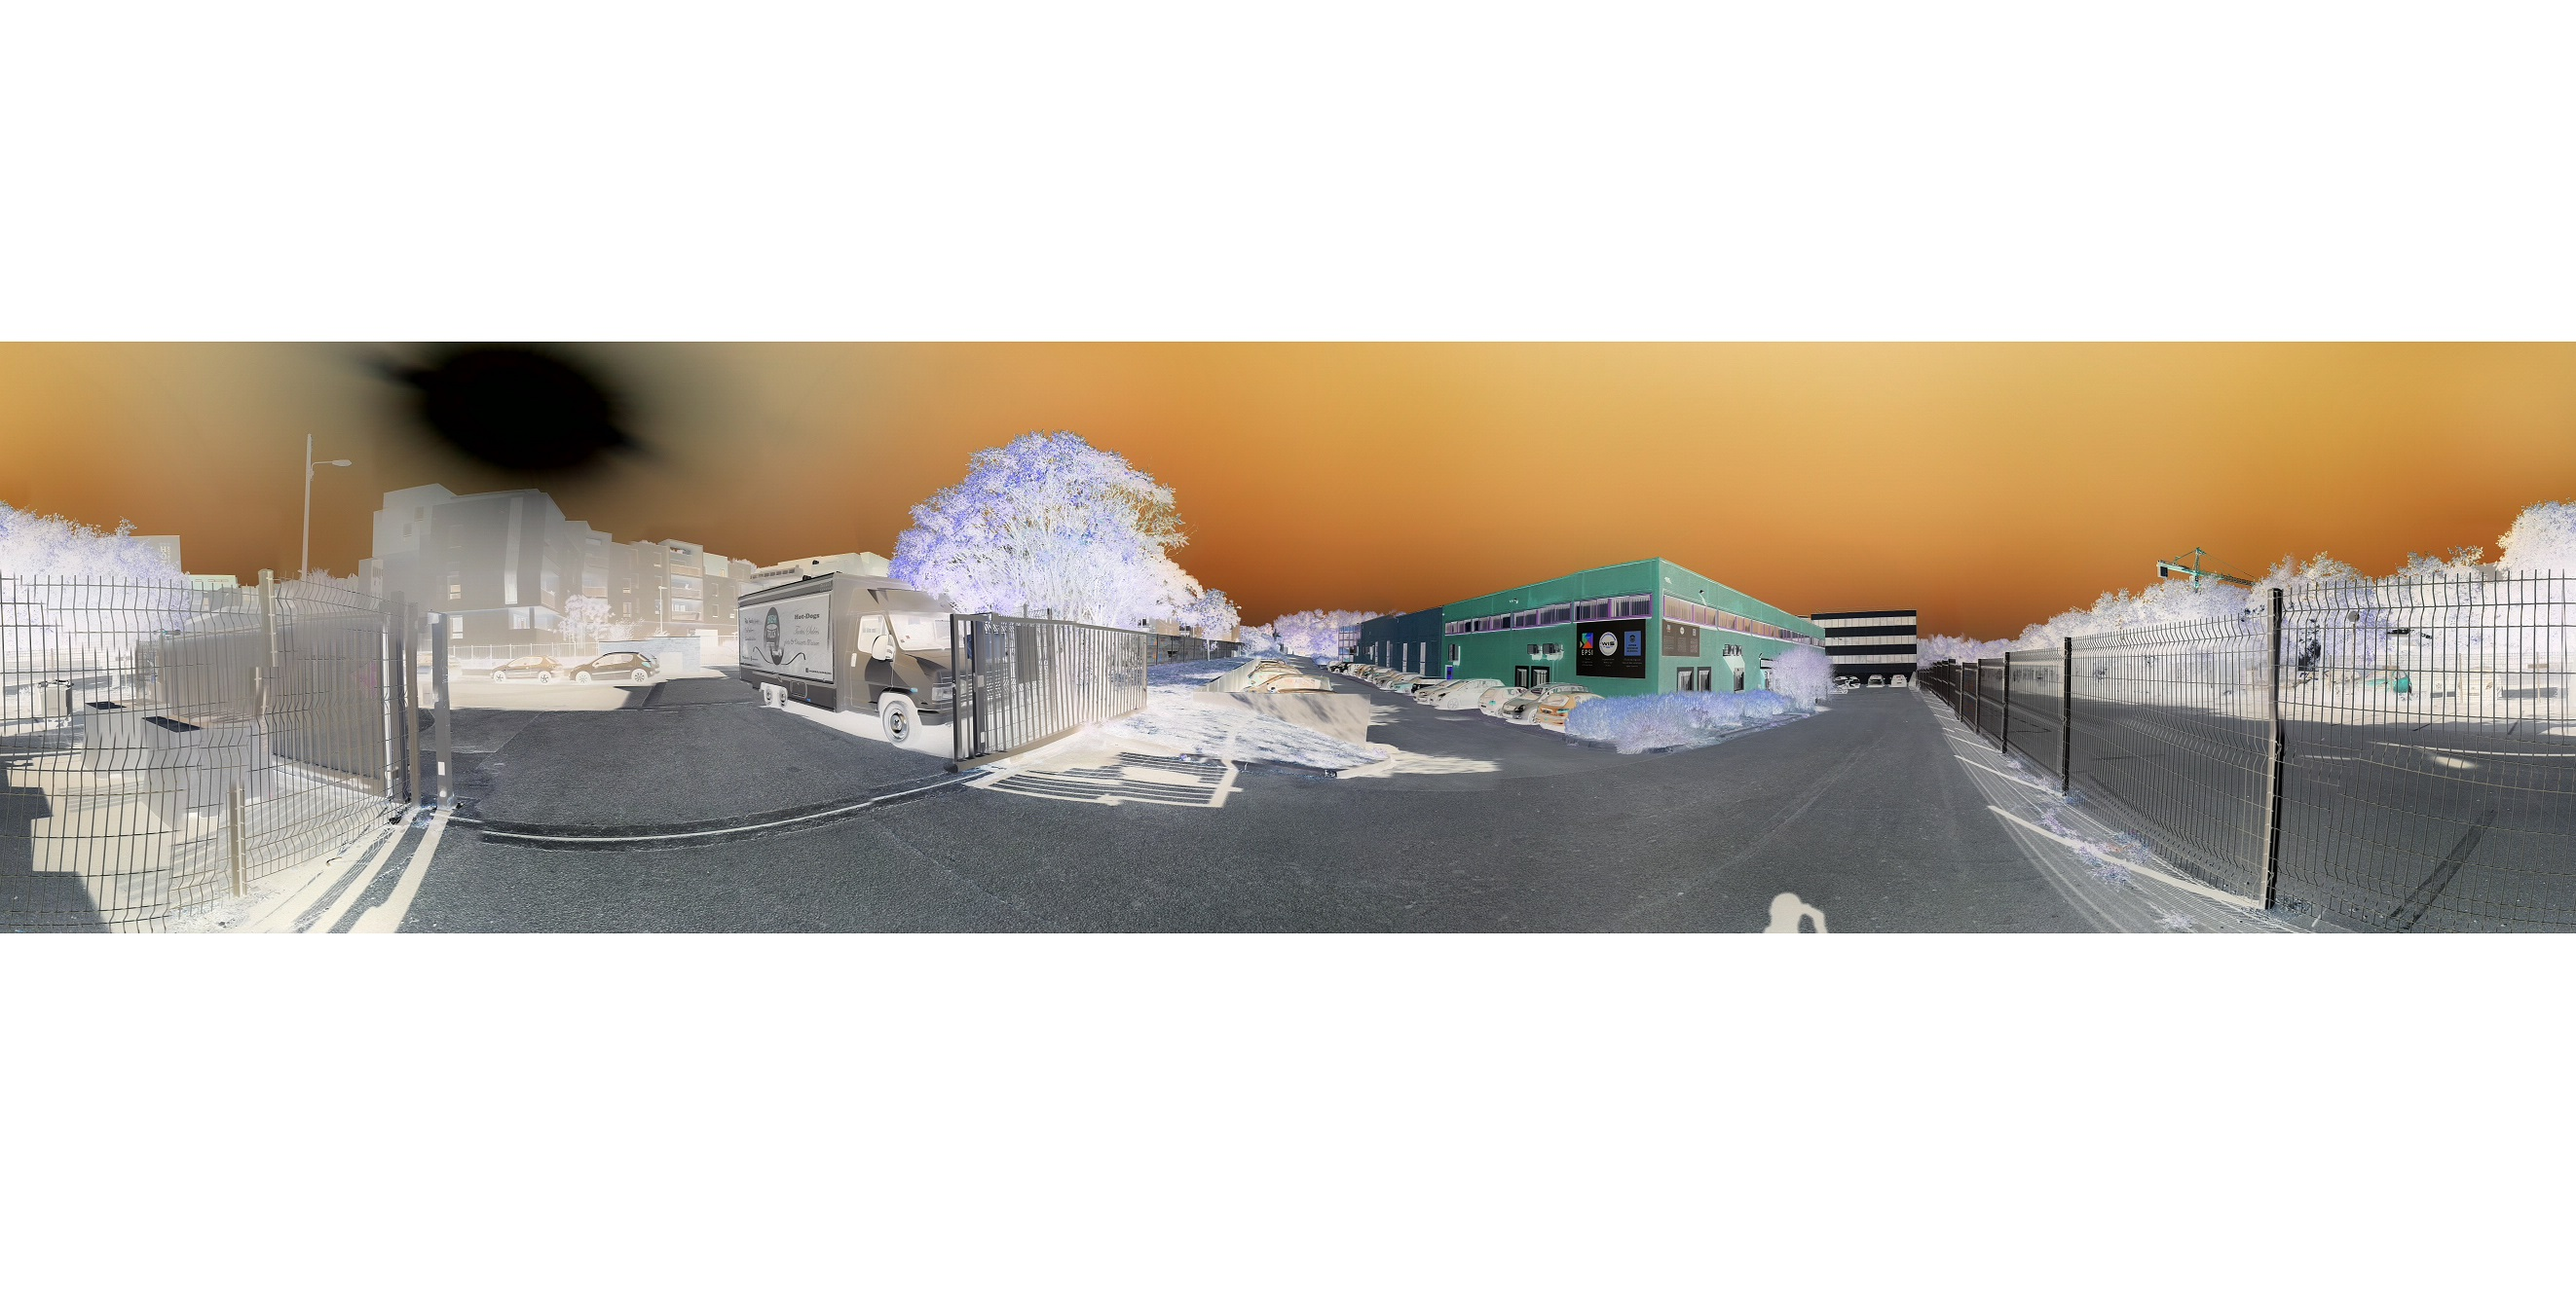
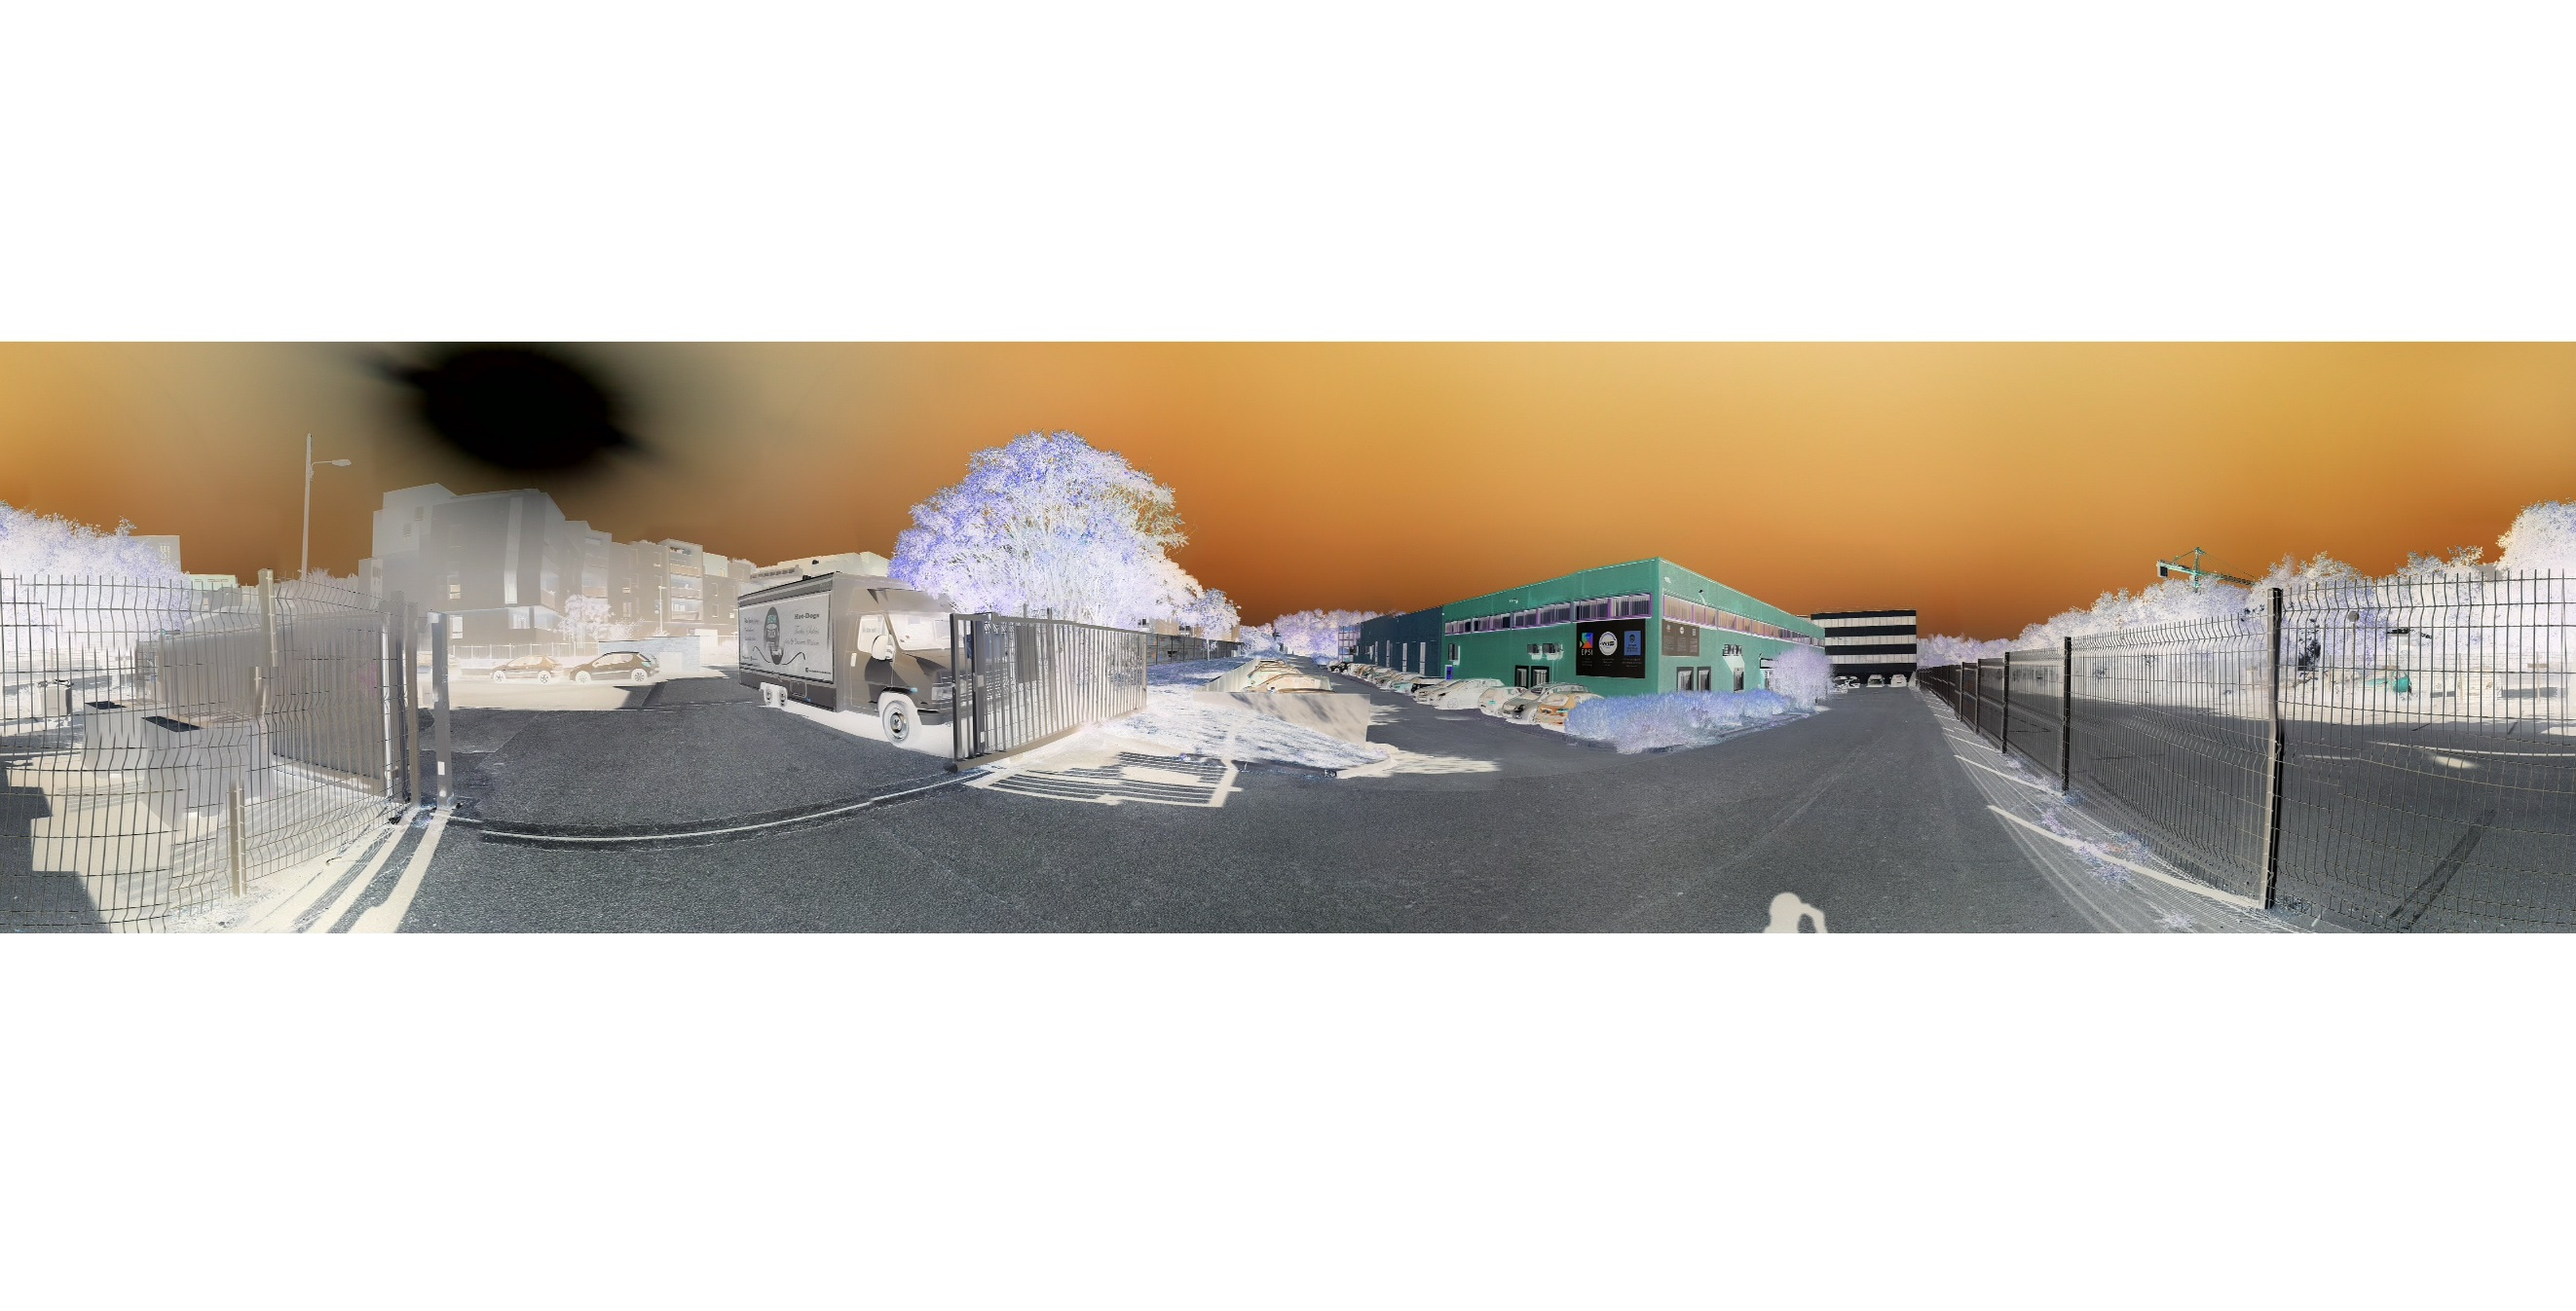
maj pano 0 & 7

diff --git a/content/htm/test.htm b/content/htm/test.htm
@@ -48,7 +48,7 @@
 	
     <script>
 	var panorama, panoatribute, txtFile, ancienpano=-1;var tempovalue = [
-	'{"ID":"0","name":"Start","link0": {"heading": 105,"description": "go1","pano": 1}}',//start
+	'{"ID":"0","name":"Start","link0": {"heading": 92,"description": "go1","pano": 1}}',//start
 	'{"ID":"1","name":"Batiment_Apothicaire","link0": {"heading": 98,"description": "go2","pano": 2},"link1": {"heading": 200,"description": "go7","pano": 7},"POPUP1":"Bienvenue à EPSI Montpellier<br><br><table><tr><td>L\’EPSI est une école informatique multi campus, présente à Arras, Bordeaux, Brest, Grenoble, Lille, Lyon, Montpellier, Nantes et Paris. L\’EPSI se positionne sur le segment des Ecoles d\’ingénierie informatique post bac et sans prépa. Exigence, accompagnement dans l\’effort, humanité et convivialité sont les forces de l\’école informatique EPSI.</td><td><a href=http://www.epsi.fr/campus/campus-de-montpellier/ target=_blank><img src=/content/img/epsi.jpg></a></td></tr><tr><td  colspan=2>437 avenue des Apothicaires 34090 Montpellier<br>Tél : 04 67 04 20 01<br><a href=mailto:info@montpellier-epsi.fr target=_top>info@montpellier-epsi.fr</a></td></tr></table>","V1":60,"V2":170,"mark1":{"X":20,"Y":-6,"name":"Parking","cont":"Le parking n’est pas réservé qu’à l’école, les bâtiments autour aussi ont leur places. Cependants, celles réservées pour l’epsi servent aux profs : les étudiants n’ont pas le droit de s’y garer !"},"mark2":{"X":167,"Y":-2,"name":"FoodTruck","cont":"Chaque jour, en face du bâtiment, un foodtruck est présent. Voyage culinaire chaque jour !"}}',
 	'{"ID":"2","name":"Entrée_Apothicaire","link0": {"heading": 292,"description": "go1","pano": 1},"link1": {"heading": 107,"description": "go3","pano": 3},"link2": {"heading": 36,"description": "go4","pano": 4},"POPUP1":"Les partenaires EPSI<br><br><table><tr><td>10 000 entreprises partenaires : résolument tournée vers le monde de l’entreprise, l’EPSI entretient des liens forts avec de nombreuses entreprises régionales et nationales. On peux citer par exemple: DELL, Microsoft, IBM GFI Informatique, La Poste, ...</a></td><td><img src=/content/img/partenaire.png></td></tr><tr><td  colspan=2>Différents types de contrats en alternance sont possibles à Montpellier:<br>-Le contrat de professionnalisation<br>-Le contrat de partenariat école / entreprise</td></tr></table>","V1":302,"V2":150,"mark1":{"X":347,"Y":-5,"name":"Secrétariat","cont":"C\'est ici qu\'il faut aller pour toutes les tâches administratives."}}',
 	'{"ID":"3","name":"Centre_Apothicaire","link0": {"heading": 290,"description": "go2","pano": 2},"link1": {"heading": 230,"description": "go5","pano": 5},"POPUP1":"Presentation de WIS Montpellier<br><br><table><tr><td>(Web International School) est une école Web et digital business qui propose une formation web et digital business accessible après le Bac ou en admission parallèle. WIS délivre 2 formations : le programme Bachelor « web et digital business » (Bac+3) et le programme Expertise Digital Business (Bac+5).</td><td><a href=http://www.wis-ecoles.com/campus/campus-de-montpellier/ target=_blank><img src=/content/img/WIS.png></a></td></tr><tr><td  colspan=2>437 avenue des Apothicaires 34090 Montpellier<br>Tél : 04 67 04 20 01<br><a href=http://www.my-admission.com/formulaire.aspx?marque=epsimontpellier&id=3443 target=_top>Contact</a></td></tr></table>","V1":110,"V2":195,"mark1":{"X":28,"Y":-1,"name":"MyDil","cont":"Un lieu où le savoir à la demande est à la portée de tous nos élèves et où le matériel modulable et high-tech est mis au service de l’expérimentation pédagogique. Échanger, développer, accélérer, co-construire, favoriser l’émergence de projets innovants par un lieu de collaboration et de confrontation unique entre étudiants :Espace, laboratoire dédié au codage, à l’innovation technologique."},"mark2":{"X":207,"Y":-2,"name":"Cafétéria","cont":"Lieu où les élèves peuvent réchauffer leur plats grâce à 4 magnifiques micro-ondes et manger sur des tables parfaitement ergonomiques. Ils ont aussi à leur disposition un distributeur de café (indispensable dans le milieu de l\'informatique) et un distributeur de malbouffe ..., non pardon, de nourriture."}}',
